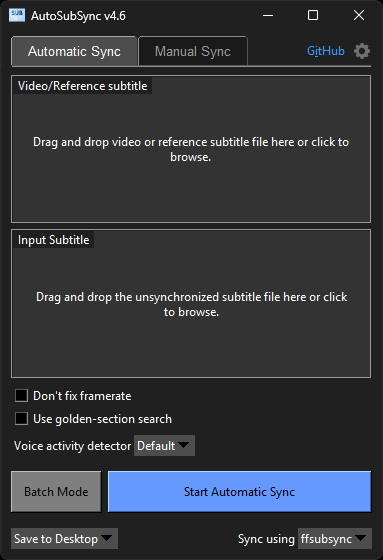
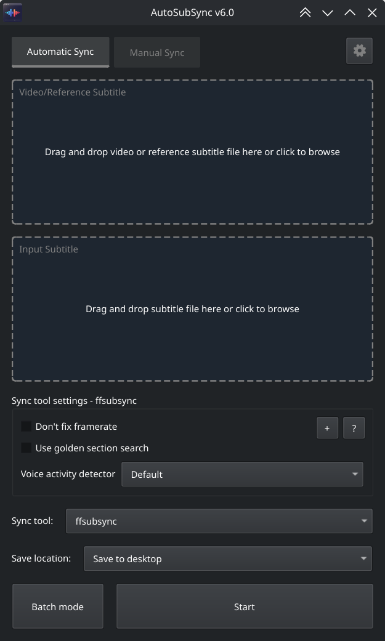
Update readme and images

diff --git a/README.md b/README.md
@@ -8,7 +8,7 @@
 [![Operating Systems](https://img.shields.io/badge/os-windows%20%7C%20linux%20%7C%20macos%20-blue)](https://github.com/denizsafak/AutoSubSync/releases/latest)
 [![GitHub Downloads (all assets, all releases)](https://img.shields.io/github/downloads/denizsafak/AutoSubSync/total?color=blue)](https://github.com/denizsafak/AutoSubSync/releases/latest)
 
-AutoSubSync is a user-friendly Python tool that automatically synchronizes your subtitles with your videos using powerful tools such as [ffsubsync](https://github.com/smacke/ffsubsync) and [alass](https://github.com/kaegi/alass). It also lets you manually adjust the subtitle timings. Just drag and drop your files, and let AutoSubSync do the rest, making subtitle alignment both simple and efficient.
+AutoSubSync is a user-friendly Python tool that automatically synchronizes your subtitles with your videos using powerful tools such as [ffsubsync](https://github.com/smacke/ffsubsync), [autosubsync](https://github.com/oseiskar/autosubsync) and [alass](https://github.com/kaegi/alass). It also lets you manually adjust the subtitle timings. Just drag and drop your files, and let AutoSubSync do the rest, making subtitle alignment both simple and efficient.
 
 <img title="AutoSubSync Automatic Tab" src='images/AutoSubSync1.png'> <img title="AutoSubSync Manual Tab" src='images/AutoSubSync2.png'> <img title="AutoSubSync Batch Mode" src='images/AutoSubSync3.png'> <img title="AutoSubSync Processing" src='images/AutoSubSync4.png'>
 
@@ -22,22 +22,21 @@ AutoSubSync is a user-friendly Python tool that automatically synchronizes your 
 
 ## `How to Run?`
 - Extract the zip.
-- Run "AutoSubSync" file.
+- Double click "AutoSubSync".
 
 > MacOS users please read [this](#for-macososx-users).
 
-## `Example Use Case`
-<img title="Example use case of AutoSubSync" src='images/AutoSubSync.gif'>
-This is an example use case of AutoSubSync. In this scenario, the tool automatically matches subtitles with videos based on naming conventions (e.g., S01E01, 1x01) and saves the subtitles next to the videos with matching filenames. This ensures that media players can easily detect and load the subtitles alongside the corresponding videos. There are many other use cases as well. Simply drag and drop the files into the input boxes and let AutoSubSync handle the rest.
-
 ## `Features`
-- **Automatic Subtitle Synchronization:** Automatically syncronize subtitles with the video/reference subtitle using [ffsubsync](https://github.com/smacke/ffsubsync) or [alass](https://github.com/kaegi/alass). Choose between tools and configure options for optimal results.
-- **Manual Subtitle Synchronization:** Shift subtitles manually by specifying the number of milliseconds. Adjust timing using the `+` and `-` buttons and choose to save the changes to the desktop or replace the original file.
-- **Batch Processing:** Efficiently process multiple video, reference subtitle, and subtitle pairs in one go.
-- **Auto-Pairing with Season/Episode:** Automatically pair videos and reference subtitles with subtitle files using patterns like S01E01, 1x01, etc.
-- **Subtitle Formats:** Supports a variety of formats including `.srt`, `.vtt`, `.sbv`, `.sub`, `.ass`, `.ssa`, `.dfxp`, `.ttml`, `.itt`, `.smi` and `.stl`.
-- **Drag and Drop:** Simply drag and drop subtitle and video files onto the interface to begin the synchronization process.
-- **Informative Messages:** Receive clear feedback messages indicating the success or failure of the synchronization process.
+
+| Feature | Description |
+|---------|-------------|
+| **Automatic Subtitle Synchronization** | Automatically synchronize subtitles with the video/reference subtitle using [ffsubsync](https://github.com/smacke/ffsubsync), [autosubsync](https://github.com/oseiskar/autosubsync) or [alass](https://github.com/kaegi/alass). Choose between tools and configure options for optimal results. |
+| **Manual Subtitle Synchronization** | Shift subtitles manually by specifying the number of milliseconds. Adjust timing using the `+` and `-` buttons and choose to save the changes to the desktop or replace the original file. |
+| **Batch Processing** | Efficiently process multiple video, reference subtitle, and subtitle pairs in one go. |
+| **Auto-Pairing with Season/Episode** | Automatically pair videos and reference subtitles with subtitle files using patterns like S01E01, 1x01, etc. |
+| **Subtitle Formats** | Supports a variety of formats including `.srt`, `.vtt`, `.sbv`, `.sub`, `.ass`, `.ssa`, `.dfxp`, `.ttml`, `.itt`, `.smi` and `.stl`. |
+| **Drag and Drop** | Simply drag and drop subtitle and video files onto the interface to begin the synchronization process. |
+| **Informative Messages** | Receive clear feedback messages indicating the success or failure of the synchronization process. |
 
 ## `Usage`
 ### Automatic Synchronization
@@ -45,20 +44,18 @@ This is an example use case of AutoSubSync. In this scenario, the tool automatic
    - Drag and drop the video and subtitle files into the respective input boxes.
    - Alternatively, click on the input boxes to browse and select the files.
 2. **Choose Synchronization Tool:**
-   - Select the synchronization tool (`ffsubsync` or `alass`) from the dropdown menu.
-3. **Set Options:**
-   - Configure additional options such as `Don't fix framerate`, `Use golden-section search`, and `Voice activity detector (VAD)` for `ffsubsync`.
-   - For `alass`, configure options like `Disable FPS guessing`, `Disable speed optimization`, and set the `Split Penalty`.
+   - Select the synchronization tool (`ffsubsync`, `autosubsync` or `alass`) from the dropdown menu.
+3. **Configure Options:**
+   - Configure the tools options using "Sync tool settings" section.
 4. **Select Output Location:**
    - Choose where to save the synchronized subtitle file using the dropdown menu.
 5. **Start Synchronization:**
-   - Click the `Start Automatic Sync` button to begin the synchronization process.
+   - Click the `Start` button to begin the synchronization process.
 6. **Batch Mode:**
    - Enable batch mode to process multiple files at once. 
    - Drag and drop multiple files or folders into the batch input area.
    - You can also add `reference subtitle - subtitle` pairs in batch mode. Just drag and drop them into the batch input area.
    - Use `Auto-Pairing with Season/Episode` to automatically pair multiple subtitles with similar names (e.g., S01E01 pairs with 01x01).
-   - Double-click any item to change it.
    - Use the `del` key to delete any item.
 
 <img title="Auto-Pairing" src='images/Auto-Pairing.png'>
@@ -72,28 +69,33 @@ This is an example use case of AutoSubSync. In this scenario, the tool automatic
 3. **Choose Output Option:**
    - Select whether to save the shifted subtitle to the desktop or replace the original subtitle file.
 4. **Start Shifting:**
-   - Click the `Shift Subtitle` button to apply the time shift.
+   - Click the `Start` button to apply the time shift.
 
  
 ### Settings (Top Right Corner)
-- **Language:** `English`, `Español`, `Deutsch`, `Français`, `Italiano`, `Polski`, `Português`, `Türkçe`, `Tiếng Việt`, `Bahasa Indonesia`, `Bahasa Melayu`, `ไทย`, `Українська`, `Русский`, `中国人`, `日本語`, `한국어`, `हिन्दी`, `বাংলা`, `العربية`, `فارسی`, `اردو` 
-(Thanks to [@bayramhayri](https://github.com/bayramhayri) for helping with translations.)
-- **Theme:** `System`, `Dark`, `Light`
-- **Change log window font:** Configure the font used in the log window. (Trigger log window to preview the changes)
-- **Log records and options:** `Keep log records`, `Open logs folder`, and `Clear all logs`
-- **Additional arguments for ffsubsync:** Configure additional arguments for ffsubsync.
-- **Additional arguments for alass:** Configure additional arguments for alass.
-- **Output subtitle encoding:** Force the encoding for the output subtitle file. Options include `UTF-8`, `UTF-16`, `ISO-8859-1`, and more.
-- **Check video for subtitle stream in alass:** Toggle for checking the subtitle streams in video for alass.
-- **Backup subtitles before overwriting:** Toggle for creating a backup of subtitles before overwriting them.
-- **Add "autosync_" prefix to subtitles:** Toggle for adding a prefix to the synchronized subtitles.
-- **Keep converted subtitles:** Toggle for keeping the converted subtitles after synchronization.
-- **Keep Extracted Subtitles:** Toggle for keeping the extracted subtitles after synchronization.
-- **Remember the Changes:** Toggle for remembering changes made.
-- **Reset to Default Settings:** Restore settings to default values.
+
+| Setting Category | Description | Options |
+|------------------|-------------|---------|
+| **Language** | Choose your preferred interface language | `English`, `Español`, `Deutsch`, `Français`, `Italiano`, `Polski`, `Português`, `Türkçe`, `Tiếng Việt`, `Bahasa Indonesia`, `Bahasa Melayu`, `ไทย`, `Українська`, `Русский`, `中国人`, `日本語`, `한국어`, `हिन्दी`, `বাংলা`, `العربية`, `فارسی`, `اردو` |
+| **Theme** | Select the application theme | `System`, `Dark`, `Light` |
+| **Change Output Subtitle Encoding** | Force the encoding for the output subtitle file | `Disabled`, `Same as Input`, `UTF-8`, `UTF-16`, `ISO-8859-1`, and more |
+| **Backup Subtitles Before Overwriting** | Toggle for creating a backup of subtitles before overwriting them | Enable/Disable |
+| **Keep Extracted Subtitles** | Toggle for keeping the extracted subtitles after synchronization | Enable/Disable |
+| **Keep Converted Subtitles** | Toggle for keeping the converted subtitles after synchronization | Enable/Disable |
+| **Add Tool Prefix to Subtitles** | Toggle for adding a prefix to the synchronized subtitles | Enable/Disable |
+| **Open Config File Directory** | Access the configuration file directory | Action button |
+| **Open Logs Directory** | Access the logs directory | Action button |
+| **Keep Log Records** | Toggle for keeping log records | Enable/Disable |
+| **Clear All Logs** | Clear all log files | Action button |
+| **Remember the Changes** | Toggle for remembering changes made | Enable/Disable |
+| **Check for Updates at Startup** | Toggle for checking updates when the app starts | Enable/Disable |
+| **Reset to Default Settings** | Restore settings to default values | Action button |
+| **About** | Show application information | Action button |
+
+> Thanks to [@bayramhayri](https://github.com/bayramhayri) for helping with translations.
 
 ## `For developers and contributors`
-If you'd like to modify the code and contribute to development, you can download the [source code](https://github.com/denizsafak/AutoSubSync/archive/refs/heads/main.zip) and build it using build.py. Ensure Python is installed on your computer before proceeding. Also check [here](https://github.com/denizsafak/AutoSubSync/blob/main/main/resources/README.md).
+If you'd like to modify the code and contribute to development, you can download the [source code](https://github.com/denizsafak/AutoSubSync/archive/refs/heads/main.zip) and build it using build.py. Ensure Python is installed on your computer before proceeding.
 
 ## `For MacOS/OSX users:`
 - You need to give permissions in "System Settings > Security & Privacy" to run the app.<br />
